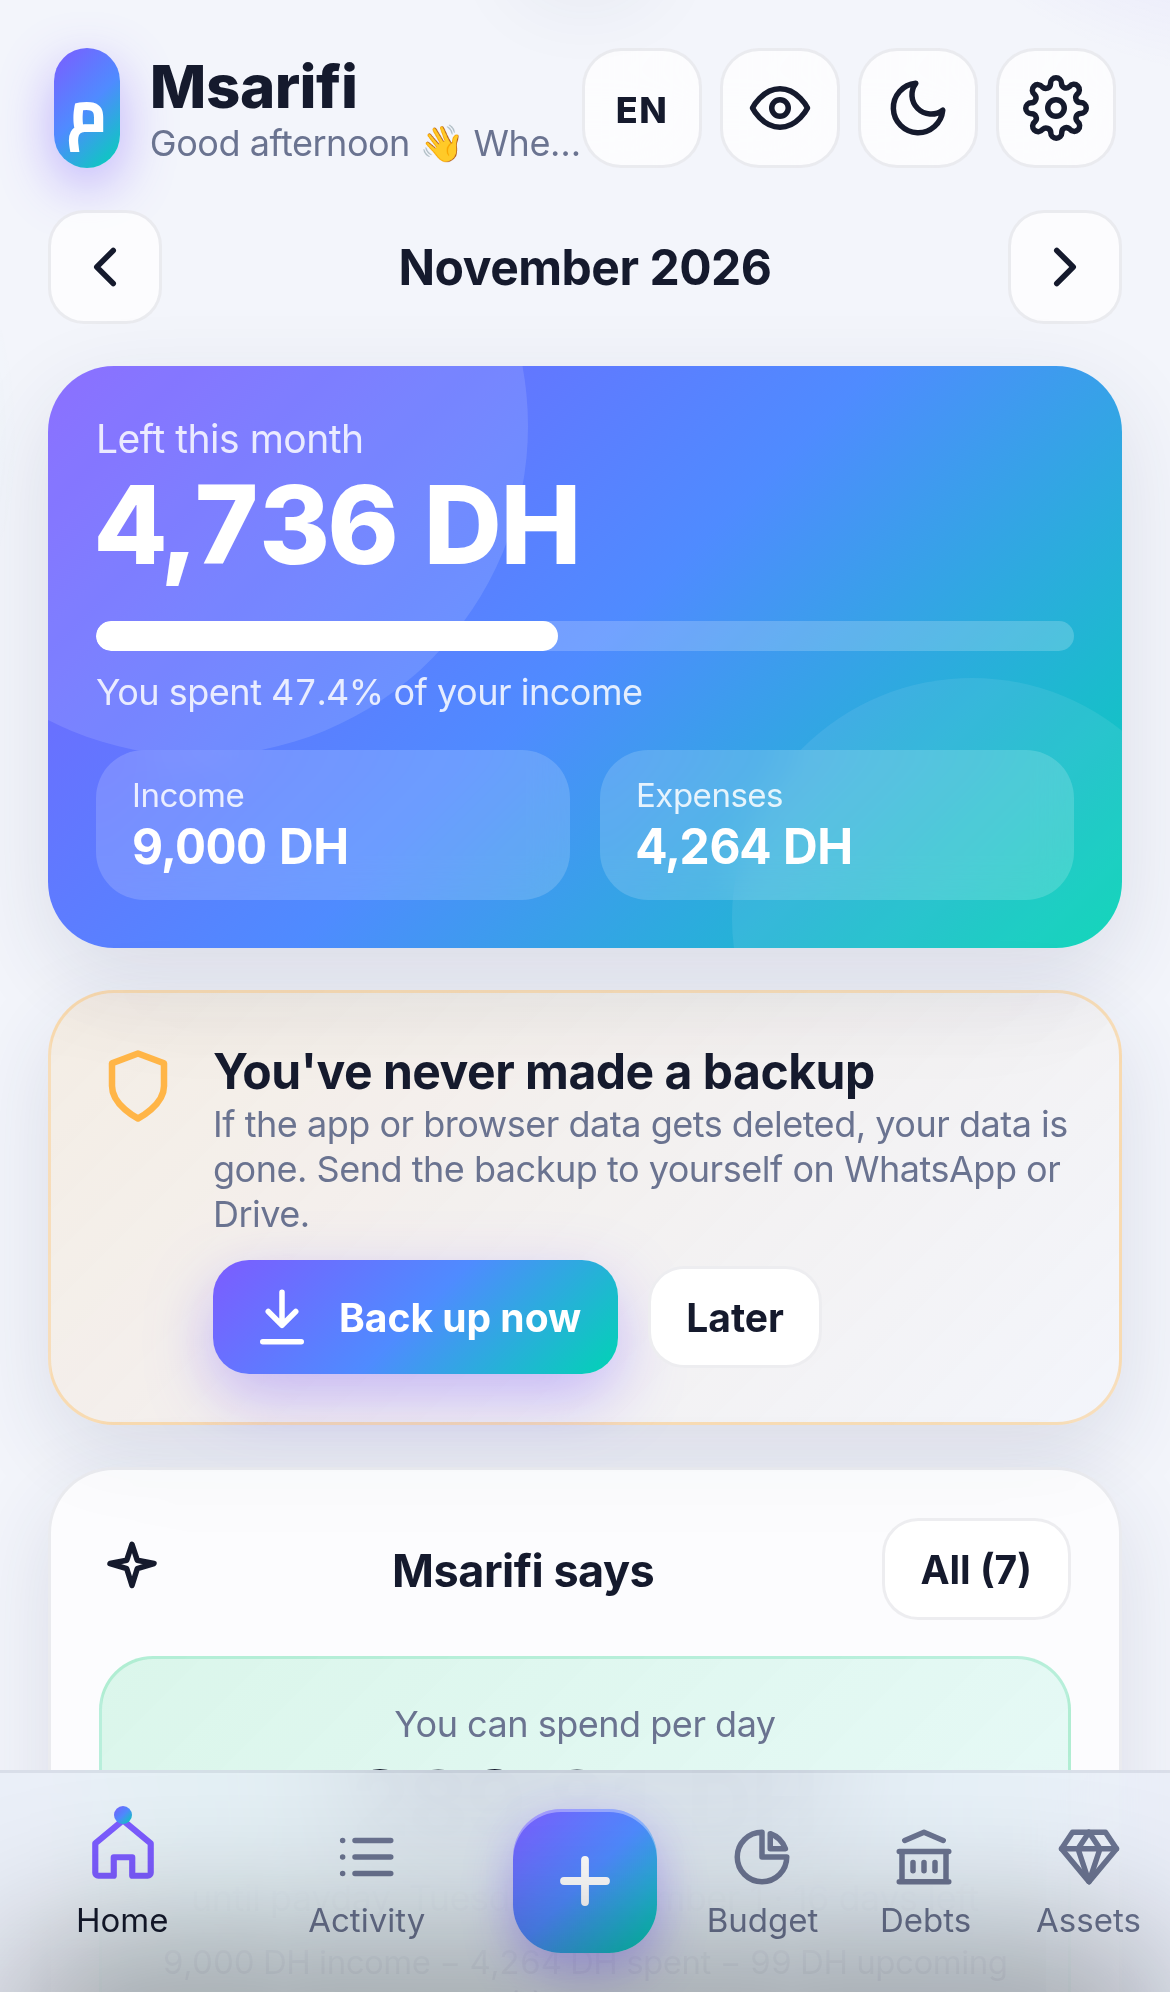
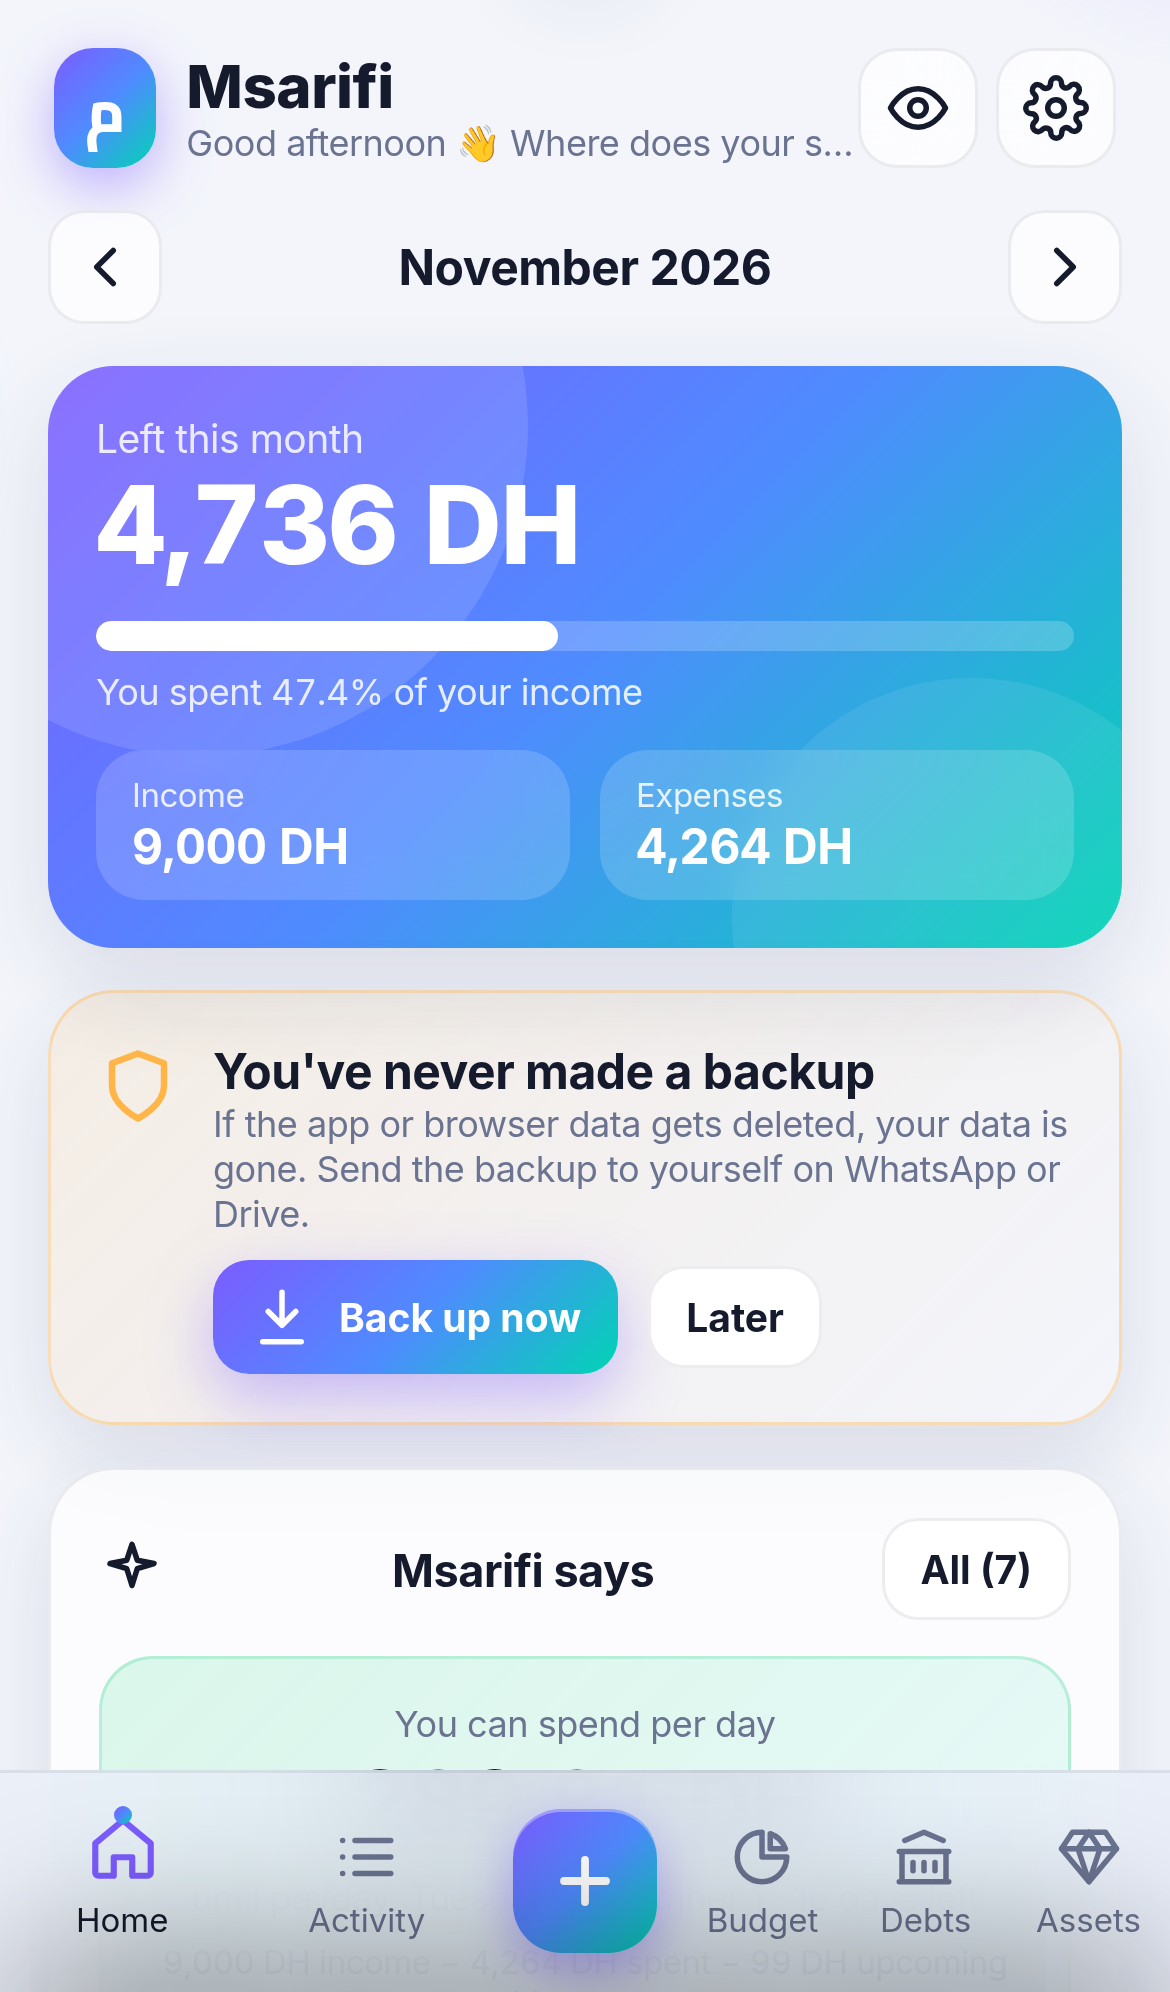
v9: language and theme moved from header to Settings

Changed region(s): [[0.0615, 0.0, 0.7077, 0.0934], [0.7692, 0.0311, 0.8, 0.0934]]

diff --git a/app.js b/app.js
@@ -615,6 +615,7 @@ function settingsSheet() {
   const pin = pinData(), lb = S.settings.lastBackup;
   openSheet(head(tr("Paramètres · الإعدادات")) + `
     <div class="card"><h2>🌍 ${L({ ar:'اللغة · Language', en:'Language', fr:'Langue' })}</h2>${langPick()}</div>
+    <div class="card"><h2>${ic('moon')} ${L({ ar:'الوضع', en:'Appearance', fr:'Apparence' })}</h2>${themePick()}</div>
     <div class="card"><h2>${ic('calendar')} ${tr("نهار الصالير")}</h2><div class="muted" style="font-size:13px;margin-bottom:8px">${tr("باش نحسب شحال تقدر تصرف فالنهار حتى للصالير الجاي.")}</div>
       <select class="input" id="paydaySel">${Array.from({ length:31 }, (_, i) => `<option value="${i + 1}" ${+S.settings.payday === i + 1 ? 'selected' : ''}>${tr("نهار")} ${i + 1} ${tr("فالشهر")}</option>`).join('')}</select></div>
     <div class="card"><h2>${ic('repeat')} ${tr("Récurrents · اللي كيتعاود")}</h2>
@@ -655,6 +656,7 @@ function importData(file) {
 }
 const ACT = {
   setLang:b => setLang(b.dataset.lang),
+  setTheme:b => { setTheme(b.dataset.th); vib(8); render(); $$('[data-act=setTheme]').forEach(x => x.classList.toggle('on', x === b)); },
   add:() => txSheet(), close:closeSheet, goTx:() => go('tx'),
   mPrev:() => { U.month = addMonth(U.month, -1); vib(6); render(); }, mNext:() => { U.month = addMonth(U.month, 1); vib(6); render(); },
   editTx:(el) => { if (el._swiped) return; txSheet(S.tx.find(t => t.id === el.dataset.id)); },
@@ -694,7 +696,7 @@ function setPriv(on, anim) {
 }
 function setTheme(t) {
   document.documentElement.dataset.theme = t; localStorage.setItem('msarifi.theme', t);
-  $('#themeBtn').innerHTML = ic(t === 'light' ? 'moon' : 'sun'); $('#themeColor').content = t === 'light' ? '#f3f5fb' : '#0b0f1a';
+  $('#themeColor').content = t === 'light' ? '#f3f5fb' : '#0b0f1a';
 }
 
 /* ---------- dates ---------- */
@@ -972,8 +974,6 @@ function applyLangChrome() {
   $('#hello').textContent = L({ ar:(h < 12 ? 'صباح الخير 👋' : h < 18 ? 'مساء الخير 👋' : 'مساء النور 🌙') + ' فين كيمشي الصالير؟',
     en:(h < 12 ? 'Good morning 👋' : h < 18 ? 'Good afternoon 👋' : 'Good evening 🌙') + ' Where does your salary go?',
     fr:(h < 18 ? 'Bonjour 👋' : 'Bonsoir 🌙') + ' Où part ton salaire ?' });
-  const lb = $('#langBtn'); lb.textContent = LANG_NAMES[LANG][1]; lb.setAttribute('aria-label', L({ ar:'اللغة · Language', en:'Language', fr:'Langue' }));
-  $('#themeBtn').setAttribute('aria-label', L({ ar:'الشكل', en:'Theme', fr:'Thème' }));
   $('#settingsBtn').setAttribute('aria-label', L({ ar:'الإعدادات', en:'Settings', fr:'Paramètres' }));
   $('#fab').setAttribute('aria-label', L({ ar:'زيد مصروف', en:'Add expense', fr:'Ajouter une dépense' }));
   const p = d.dataset.priv === '1'; $('#privBtn').setAttribute('aria-label', p ? L({ ar:'بين الأرقام', en:'Show amounts', fr:'Afficher les montants' }) : L({ ar:'خبي الأرقام', en:'Hide amounts', fr:'Masquer les montants' }));
@@ -991,6 +991,8 @@ function setLang(l, quiet) {
 function langSheet() {
   openSheet(`<h3>${L({ ar:'اللغة · Language', en:'Language', fr:'Langue' })}<span class="row"><button class="icon-btn press" data-act="close" aria-label="×">${ic('x')}</button></span></h3>${langPick()}<div class="hint" style="margin-top:12px">${L({ ar:'تقدر تبدلها من بعد من Paramètres.', en:'You can change it anytime in Settings.', fr:'Modifiable à tout moment dans les Paramètres.' })}</div>`);
 }
+const themePick = () => { const cur = document.documentElement.dataset.theme === 'light' ? 'light' : 'dark';
+  return `<div class="lang-pick" style="grid-template-columns:1fr 1fr">${[['dark', 'moon', L({ ar:'ليلي', en:'Dark', fr:'Sombre' })], ['light', 'sun', L({ ar:'نهاري', en:'Light', fr:'Clair' })]].map(([k, i, n]) => `<button type="button" class="${k === cur ? 'on' : ''}" data-act="setTheme" data-th="${k}">${ic(i)}<span>${n}</span></button>`).join('')}</div>`; };
 const langWelcome = () => {
   let chosen = null; try { chosen = localStorage.getItem('msarifi.lang'); } catch (e) {}
   if (chosen || S.tx.length) return '';
@@ -1006,7 +1008,7 @@ function boot() {
   setPriv(document.documentElement.dataset.priv === '1');
   $('#privBtn').onclick = () => setPriv(document.documentElement.dataset.priv !== '1', true); $('#settingsBtn').innerHTML = ic('settings');
   setTheme(document.documentElement.dataset.theme === 'light' ? 'light' : 'dark');
-  applyLangChrome(); $('#langBtn').onclick = () => { bounce($('#langBtn')); langSheet(); };
+  applyLangChrome();
   document.addEventListener('pointerdown', ripple, { passive:true });
   document.addEventListener('click', e => {
     const tb = e.target.closest('[data-tab]'); if (tb) return go(tb.dataset.tab);
@@ -1016,7 +1018,6 @@ function boot() {
   });
   $('#fab').onclick = () => { bounce($('#fab')); if ($('#sheet').classList.contains('show')) closeSheet(); else txSheet(); };
   $('#backdrop').onclick = closeSheet;
-  $('#themeBtn').onclick = () => { setTheme(document.documentElement.dataset.theme === 'light' ? 'dark' : 'light'); bounce($('#themeBtn')); vib(8); render(); };
   $('#settingsBtn').onclick = settingsSheet;
   $('#importFile').onchange = e => { const f = e.target.files[0]; if (f) importData(f); e.target.value = ''; };
   document.addEventListener('keydown', e => { if (e.key === 'Escape') closeSheet(); });

diff --git a/sw.js b/sw.js
@@ -1,4 +1,4 @@
-const CACHE = 'msarifi-v8';
+const CACHE = 'msarifi-v9';
 const ASSETS = ['./', './index.html', './styles.css', './i18n.js', './app.js', './manifest.json', './fonts/cairo-arabic.woff2', './fonts/cairo-latin.woff2', './fonts/cairo-latin-ext.woff2', './fonts/inter-latin.woff2', './icons/icon-192.png', './icons/icon-512.png', './icons/apple-touch-icon.png'];
 self.addEventListener('install', e => { e.waitUntil(caches.open(CACHE).then(c => c.addAll(ASSETS)).then(() => self.skipWaiting())); });
 self.addEventListener('activate', e => { e.waitUntil(caches.keys().then(ks => Promise.all(ks.filter(k => k !== CACHE).map(k => caches.delete(k)))).then(() => self.clients.claim())); });

diff --git a/index.html b/index.html
@@ -22,9 +22,7 @@
   <header class="top">
     <div class="brand"><div class="logo">م</div><div><h1>مصاريفي</h1><small id="hello">فين كيمشي الصالير؟</small></div></div>
     <div class="row">
-      <button class="icon-btn press lang-btn" id="langBtn" aria-label="Language">AR</button>
       <button class="icon-btn press" id="privBtn" aria-label="خبي الأرقام" aria-pressed="false"></button>
-      <button class="icon-btn press" id="themeBtn" aria-label="Thème"></button>
       <button class="icon-btn press" id="settingsBtn" aria-label="Paramètres"></button>
     </div>
   </header>
